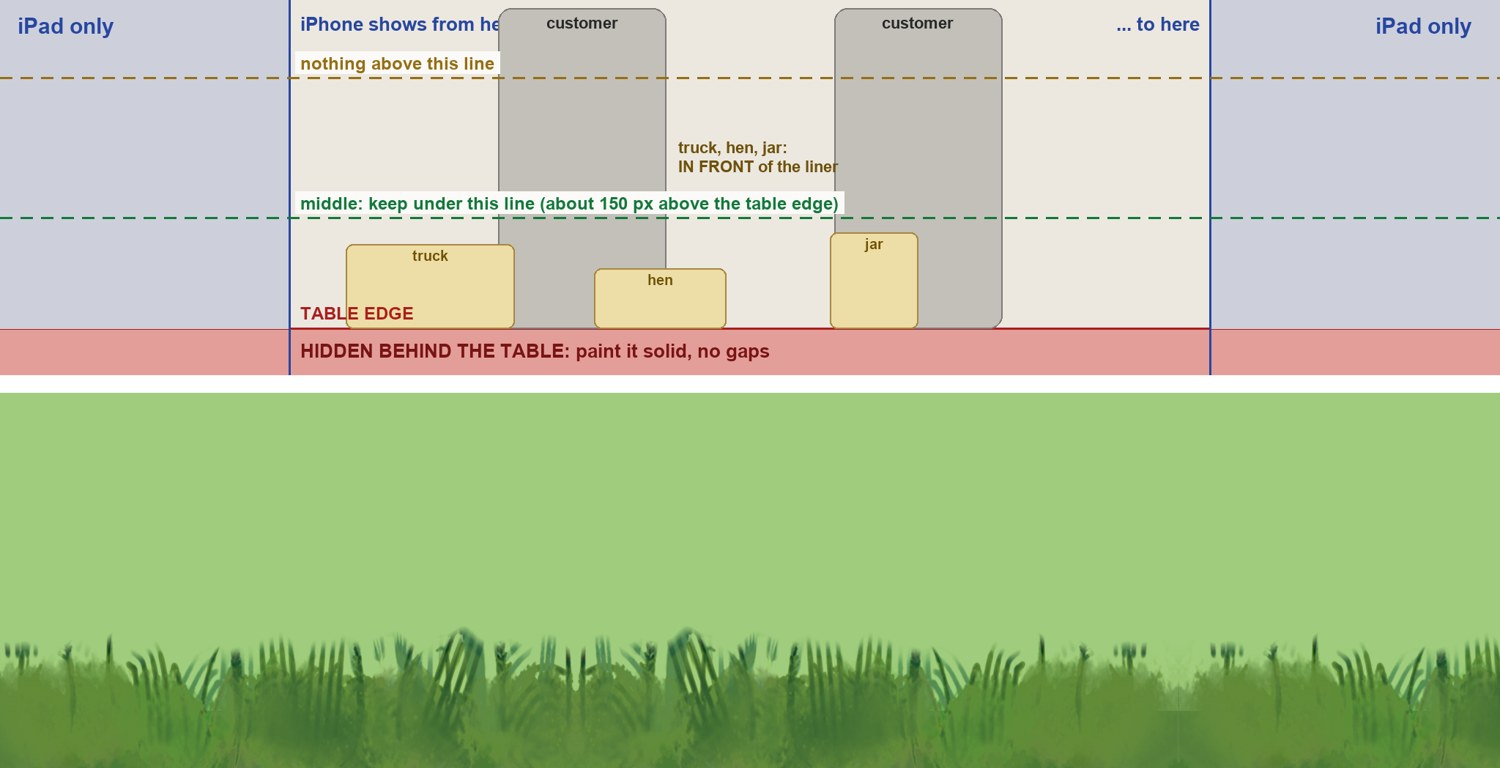
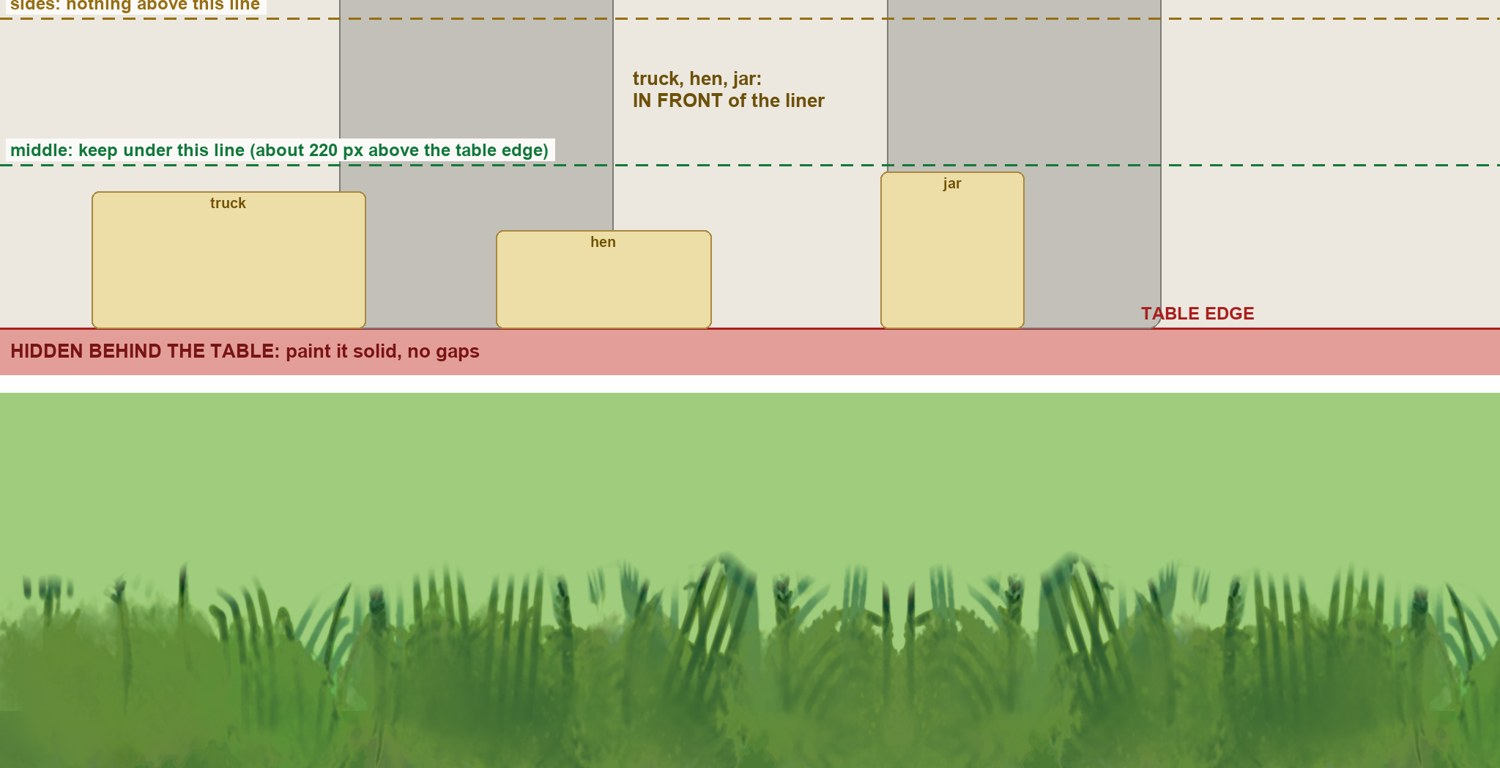
Truck: the white hatch window is dark while the light is off and warm when it is on (owner, 15 November); report: upright liner template, Unity Ads income
The button's picture is decor/kit1_table.png (not truck.png): the pane's place is measured on that one.

diff --git a/Docs/tools/report_page/index.html b/Docs/tools/report_page/index.html
@@ -108,9 +108,9 @@ h3 small{font-weight:600;color:var(--soft);font-size:13px;margin-left:6px}
 
 <div class="card">
 <p style="margin-top:0"><b>Truck: no wiggle, and a window light with three states, 15 November.</b></p>
-<figure><img src="truck_light.jpg" alt="The truck with its window dark, and with the window lit"><figcaption>Left: kitchen idle by day, light off. Right: the light on, as it shows while blinking and at night.</figcaption></figure>
+<figure><img src="truck_light.jpg" alt="The truck with its window dark, and with the window lit"><figcaption>Left: kitchen idle by day, the window dark. Right: the window lit, as it shows while blinking and at night.</figcaption></figure>
 <ul>
-<li><b>Off:</b> by day, when the kitchen is making nothing.</li>
+<li><b>Off:</b> by day, when the kitchen is making nothing. The white window turns dark, like the blackboards beside it (your words, today).</li>
 <li><b>Blinking:</b> while the kitchen cooks: an oven baking, the blender or the waffle machine running. By day and by night, a little faster than once a second.</li>
 <li><b>Warm yellow, steady:</b> from dusk into night. This light was already there; it now gives way to the blink while something cooks.</li>
 <li>Checked in the editor: the truck stands still; the light read off, then swung between dim and bright during an 8-second bread bake, and was steady with the night forced.</li>
@@ -132,9 +132,9 @@ h3 small{font-weight:600;color:var(--soft);font-size:13px;margin-left:6px}
 <p style="margin:10px 0 4px"><b>What to draw:</b></p>
 <ul>
 <li><b>Canvas:</b> 2048 x 512 pixels, see-through background, one PNG per chapter.</li>
-<li><b>Width:</b> the whole canvas is an iPad's screen. An iPhone shows only the middle 1256 pixels, between the two blue lines; paint to both edges anyway.</li>
+<li><b>Width:</b> the canvas is the whole screen from left edge to right edge, upright as the game always is. Paint to both edges.</li>
 <li><b>Table edge:</b> the red line, 64 pixels above the bottom. Below it the table hides the liner: paint that strip solid, so no gap can show.</li>
-<li><b>Height:</b> in the middle keep it under the green line, about 150 pixels above the table edge, which is the customers' hips. At the sides it may go higher, up to the brown line.</li>
+<li><b>Height:</b> in the middle keep it under the green line, about 220 pixels above the table edge, which is the customers' hips. At the sides it may go higher, up to the brown line near the top.</li>
 <li><b>In front and behind:</b> the truck, the hen and the jar stand in front of the liner; customers and the yoga lady stand behind it.</li>
 </ul>
 <p style="margin:10px 0 4px"><b>What makes it work well in the game:</b></p>
@@ -195,6 +195,7 @@ h3 small{font-weight:600;color:var(--soft);font-size:13px;margin-left:6px}
 <div class="ok"><span class="dot">●</span><span><b>Most new players came from the Philippines</b> (10 of 14), within about a day. I do not know why; nothing in the numbers says where they found the game.</span></div>
 <div class="ok"><span class="dot">●</span><span><b>Half show nothing after opening.</b> Careful with this one: 26.11.13 loses a player's last minute if they never come back, so some of the 7 may have played up to a minute. 26.11.21 sends its records at once, so from today this number is real.</span></div>
 <div class="ok"><span class="dot">●</span><span>Of the 5 who started day 1, 3 have no day-end on record. Same caveat: they may have finished it.</span></div>
+<div class="ok"><span class="dot">●</span><span><b>Unity Ads income so far: about $0.73</b> (Unity's estimate for the last 90 days, which covers the game's whole life: 59 ads shown, 280 asked for). $0.08 of it came in the last seven days, $0.06 on 14 November alone. Unity's Finance page shows an unpaid balance of $0.00; it says the balance is updated periodically.</span></div>
 </div>
 
 </main>

diff --git a/Assets/Scripts/LevelControl/DayNightTint.cs b/Assets/Scripts/LevelControl/DayNightTint.cs
@@ -286,6 +286,11 @@ public class DayNightTint : MonoBehaviour
         var trt = truck != null ? truck.GetComponent<RectTransform>() : null;
         if (trt != null)
         {
+            // the hatch's white window pane itself (the button's picture is decor/kit1_table.png, 419 x 406; its white
+            // window is x 124 to 166, y 137 to 224): dark while the light is off, warm when it is on (owner,
+            // 15 November 2026: "when truck is off, i want that white window to become dark color"); under the two glows
+            truckPane = MakeAnchoredImage(trt, "WindowPane", null, new Vector2(0.293f, 0.443f), new Vector2(0.402f, 0.666f));
+            truckPane.preserveAspect = false; truckPane.color = PaneDark;
             truckLights.Add(MakeAnchoredImage(trt, "WindowLight", StarSprite(), new Vector2(0.06f, 0.26f), new Vector2(0.70f, 0.70f)));
             truckLights.Add(MakeAnchoredImage(trt, "WindowLight", StarSprite(), new Vector2(0.66f, 0.42f), new Vector2(0.90f, 0.68f)));
             foreach (var l in truckLights) { l.preserveAspect = false; l.color = new Color(1f, 0.86f, 0.5f, 0f); }
@@ -317,6 +322,8 @@ public class DayNightTint : MonoBehaviour
     // yellow light"): off by day, a steady warm yellow at dusk and night, and blinking while the kitchen cooks (an
     // oven baking, the blender or the kitchen's waffle machine running), by day and by night.
     private bool kitchenCooking; private float cookingCheckAt;
+    private Image truckPane;
+    private static readonly Color PaneDark = new Color(0.17f, 0.15f, 0.18f, 0.93f), PaneLit = new Color(1f, 0.87f, 0.52f, 0.88f);
     private const float BlinkPerSecond = 1.4f;
 
     private static bool KitchenIsCooking()
@@ -340,6 +347,7 @@ public class DayNightTint : MonoBehaviour
             var steady = k * (0.78f + 0.07f * Mathf.Sin(t * 5.3f + i));
             var c = truckLights[i].color; c.a = kitchenCooking ? blink : steady; truckLights[i].color = c;
         }
+        if (truckPane != null) truckPane.color = Color.Lerp(PaneDark, PaneLit, kitchenCooking ? blink : Mathf.Clamp01(k / 0.6f));
         for (var i = 0; i < fireflies.Length; i++)
         {
             if (fireflies[i] == null) continue;
